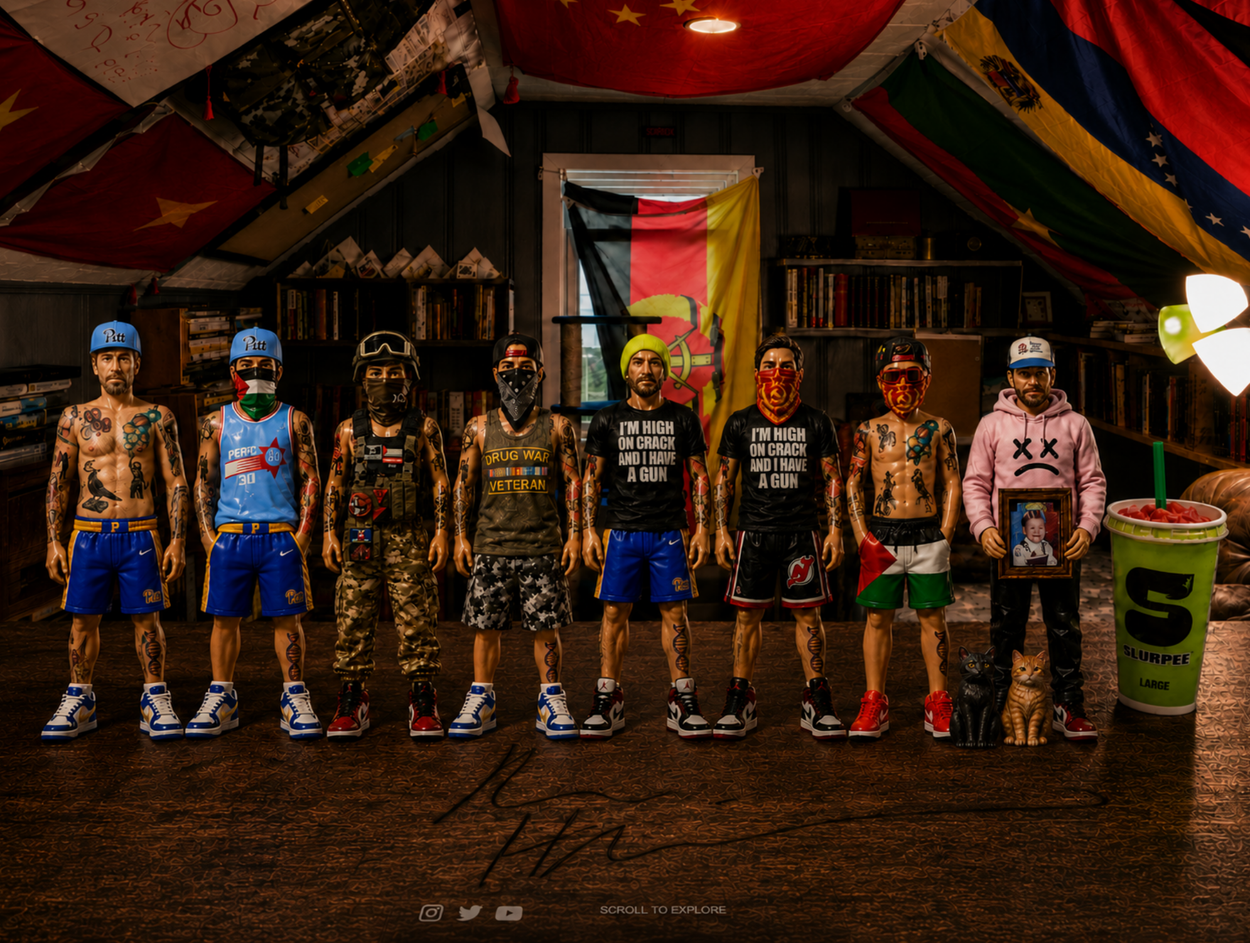
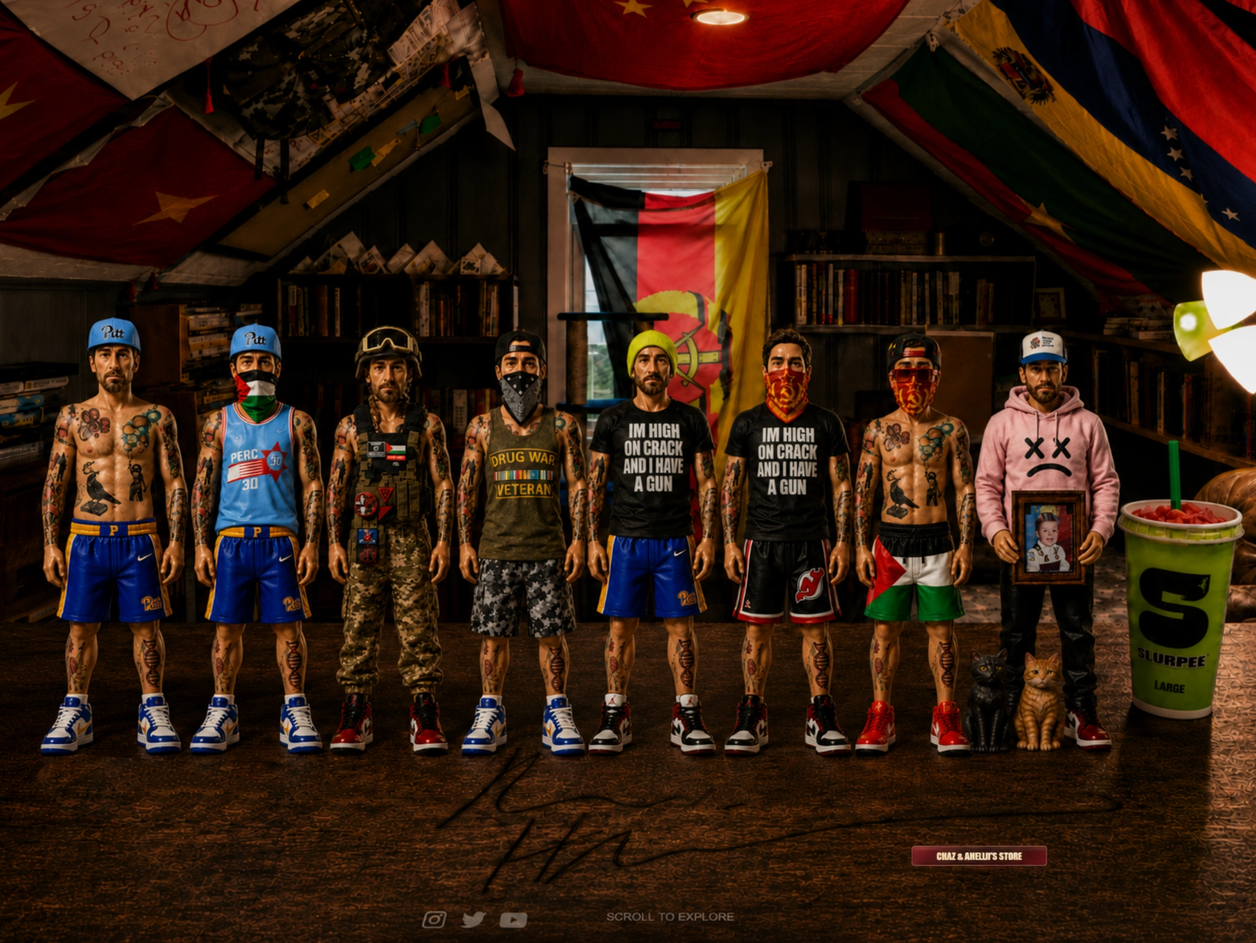
Update menu lineup artwork clarity

diff --git a/index.html b/index.html
@@ -469,8 +469,8 @@
 
     .board-frame {
       position: relative;
-      width: min(100vw, calc(100dvh * 1.325566));
-      aspect-ratio: 1991 / 1502;
+      width: min(100vw, calc(100dvh * 1.332224));
+      aspect-ratio: 2001 / 1502;
       max-width: none;
       margin: 0 auto;
       overflow: hidden;
@@ -2948,8 +2948,8 @@
       }
 
       .board-frame {
-        width: max(900px, calc(100vh * 1.325566));
-        width: max(900px, calc(100dvh * 1.325566));
+        width: max(900px, calc(100vh * 1.332224));
+        width: max(900px, calc(100dvh * 1.332224));
         min-width: 900px;
         height: 100vh;
         height: 100dvh;
@@ -3368,7 +3368,7 @@
       <div class="board-frame" id="boardFrame">
         <picture class="board-picture">
           <source data-srcset="action-figure-room.webp" type="image/webp">
-          <img class="board-image" id="boardImage" data-src="action-figure-room.png" data-candidates="action-figure-room.png,corkboard-desktop.png,corkboard-mobile.png" alt="Action-figure archive room with eight clickable figures and Chaz and Amelia near the store area" width="1991" height="1502" loading="lazy" decoding="async" fetchpriority="low">
+          <img class="board-image" id="boardImage" data-src="action-figure-room.png" data-candidates="action-figure-room.png,corkboard-desktop.png,corkboard-mobile.png" alt="Action-figure archive room with eight clickable figures and Chaz and Amelia near the store area" width="2001" height="1502" loading="lazy" decoding="async" fetchpriority="low">
         </picture>
 
         <button class="hotspot is-primary" type="button" data-menu-hotspot data-figure="soundtrack" data-action="suno" aria-label="Open OG Crack Track sound figure">
